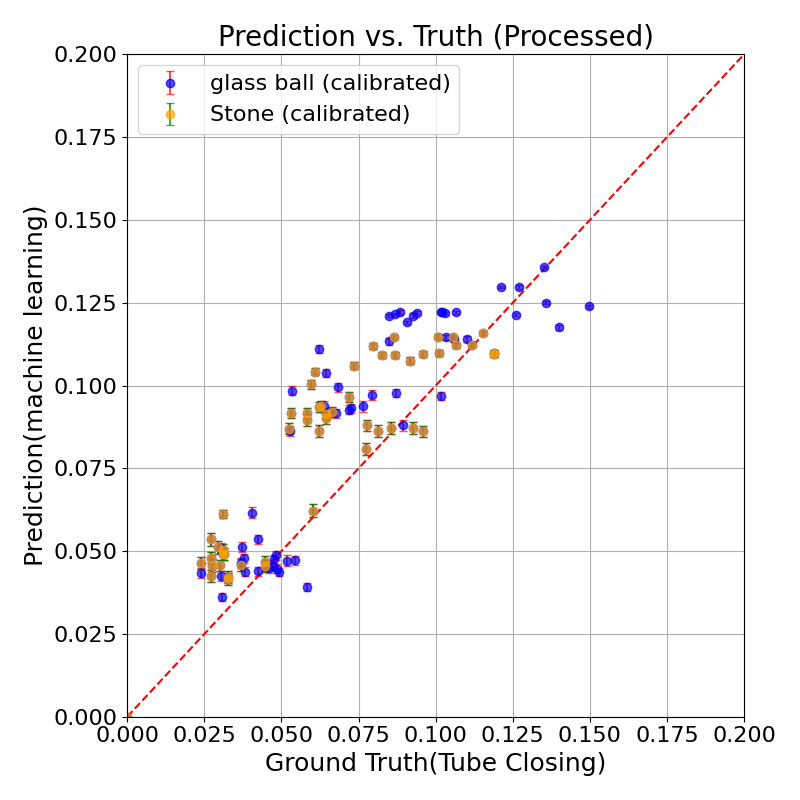
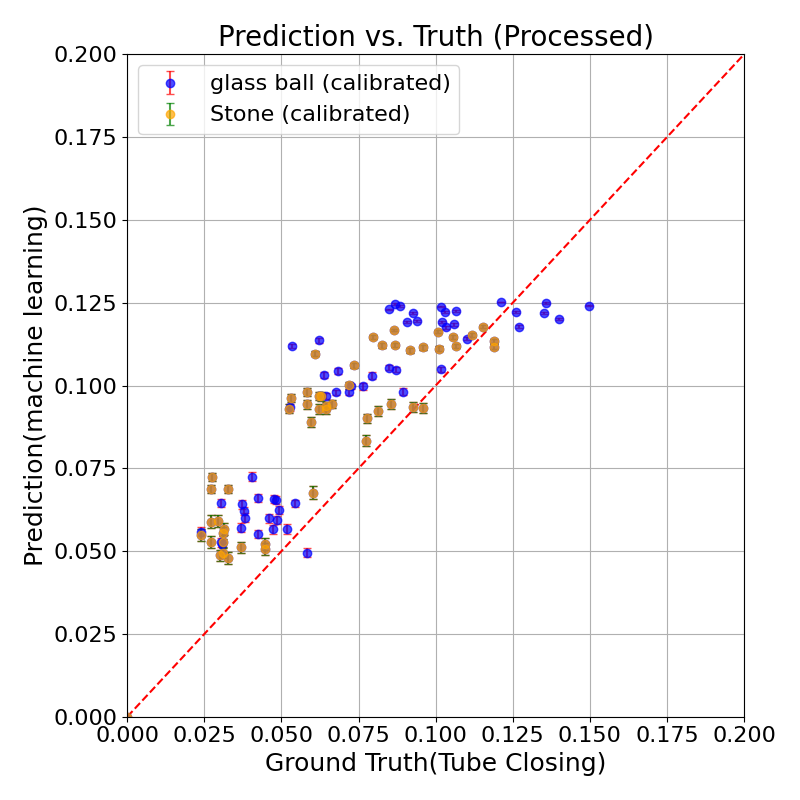
Merge remote-tracking branch 'upstream/main' into feature/eval_tutorial-update

Changed region(s): [[0.3438, 0.3438, 0.7188, 0.5625], [0.25, 0.5938, 0.4062, 0.75], [0.6562, 0.3125, 0.6875, 0.3438]]

diff --git a/src/utils.py b/src/utils.py
@@ -149,10 +149,10 @@ def preprocess(path, device="cuda:0", filter_freq=[0, 1.0e9],
         x_test = np.nan_to_num(x_test)
     print(f'x_test shape: {x_test.shape}')
     argmax_pipe_ref2 = np.argmax(x_test[1000,:])
-    x_test = x_test[:,argmax_pipe_ref2-170:argmax_pipe_ref2+2330]
-    raw_tmp = raw_tmp[:,argmax_pipe_ref2-170:argmax_pipe_ref2+2330]
-    # x_test = x_test[:,208:2708]
-    # raw_tmp = raw_tmp[:,208:2708]
+    # x_test = x_test[:,argmax_pipe_ref2-170:argmax_pipe_ref2+2330]
+    # raw_tmp = raw_tmp[:,argmax_pipe_ref2-170:argmax_pipe_ref2+2330]
+    x_test = x_test[:,208:2708]
+    raw_tmp = raw_tmp[:,208:2708]
     print(f'argmax {argmax_pipe_ref2}')
     pulse_num = x_test.shape[0]
     x_test_tensor = torch.from_numpy(x_test).float()
@@ -322,10 +322,10 @@ def  rolling_window_signal(rolling_window, window_size=20, x_test=None):
         s =pl.from_numpy(np.transpose(x_test))
 
         # s = s.select(pl.all().rolling_mean(
-        #     window_size=window_size,
+        #     window_size=window_size//2,
         #     min_periods=1
         # ))
-        s = s.select(pl.all().rolling_min(
+        s = s.select(pl.all().rolling_mean(
             window_size=window_size,
             min_periods=1
         ))
